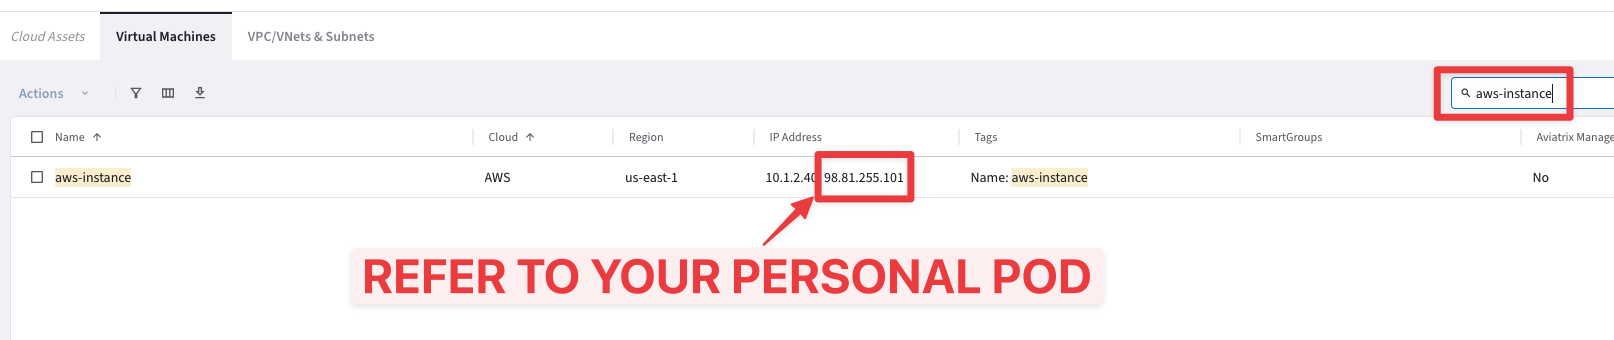
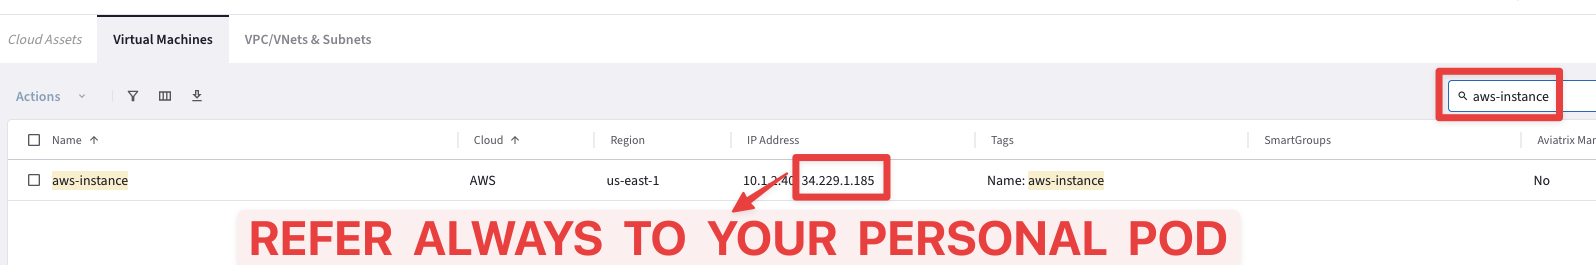
update for backbone

diff --git a/ace_backbone/docs/backbone.md b/ace_backbone/docs/backbone.md
@@ -464,15 +464,51 @@ You have successfully extended the Aviatrix solution to the on-prem Data Center,
 
 ## Connectivity Test
 
-Go to **CoPilot > Cloud Resources > Cloud Assets** and search for the **aws-instance** on the Search field, then retrieve its Public IP address!
+Let's now verify the connectivity between Azuere, AWS and the on-prem DC.
+
+Go to **CoPilot > Cloud Resources > Cloud Assets** and search for the **aws-instance** on the Search field, then retrieve its **Public** IP address!
 
 ```{figure} images/backbone-tgw030.png
 ---
 align: center
 ---
-aws-instance
+aws-instance on the Cloud Assets
 ```
 
-Open an **SSH client** and establish a session towards the aws-instance.
+Now open an **SSH client** and establish a session towards the <ins>aws-instance</ins>.
 
-## Conclusion
+```{figure} images/backbone-tgw031.png
+---
+align: center
+---
+SSH
+```
+
+Now let's ping the **Private** IP address of the <ins>azure-instance</ins>
+
+```{figure} images/backbone-tgw032.png
+---
+height: 400px
+align: center
+---
+azure-instance
+```
+
+Issue the following command to verify the connectivity with the **_azure-instance_**:
+
+```bash
+ping 10.2.2.40 
+```
+
+```{tip}
+Keep the ping running recursively!
+```
+
+```{figure} images/backbone-tgw033.png
+---
+height: 400px
+align: center
+---
+ping towards azure-instance
+```
+
